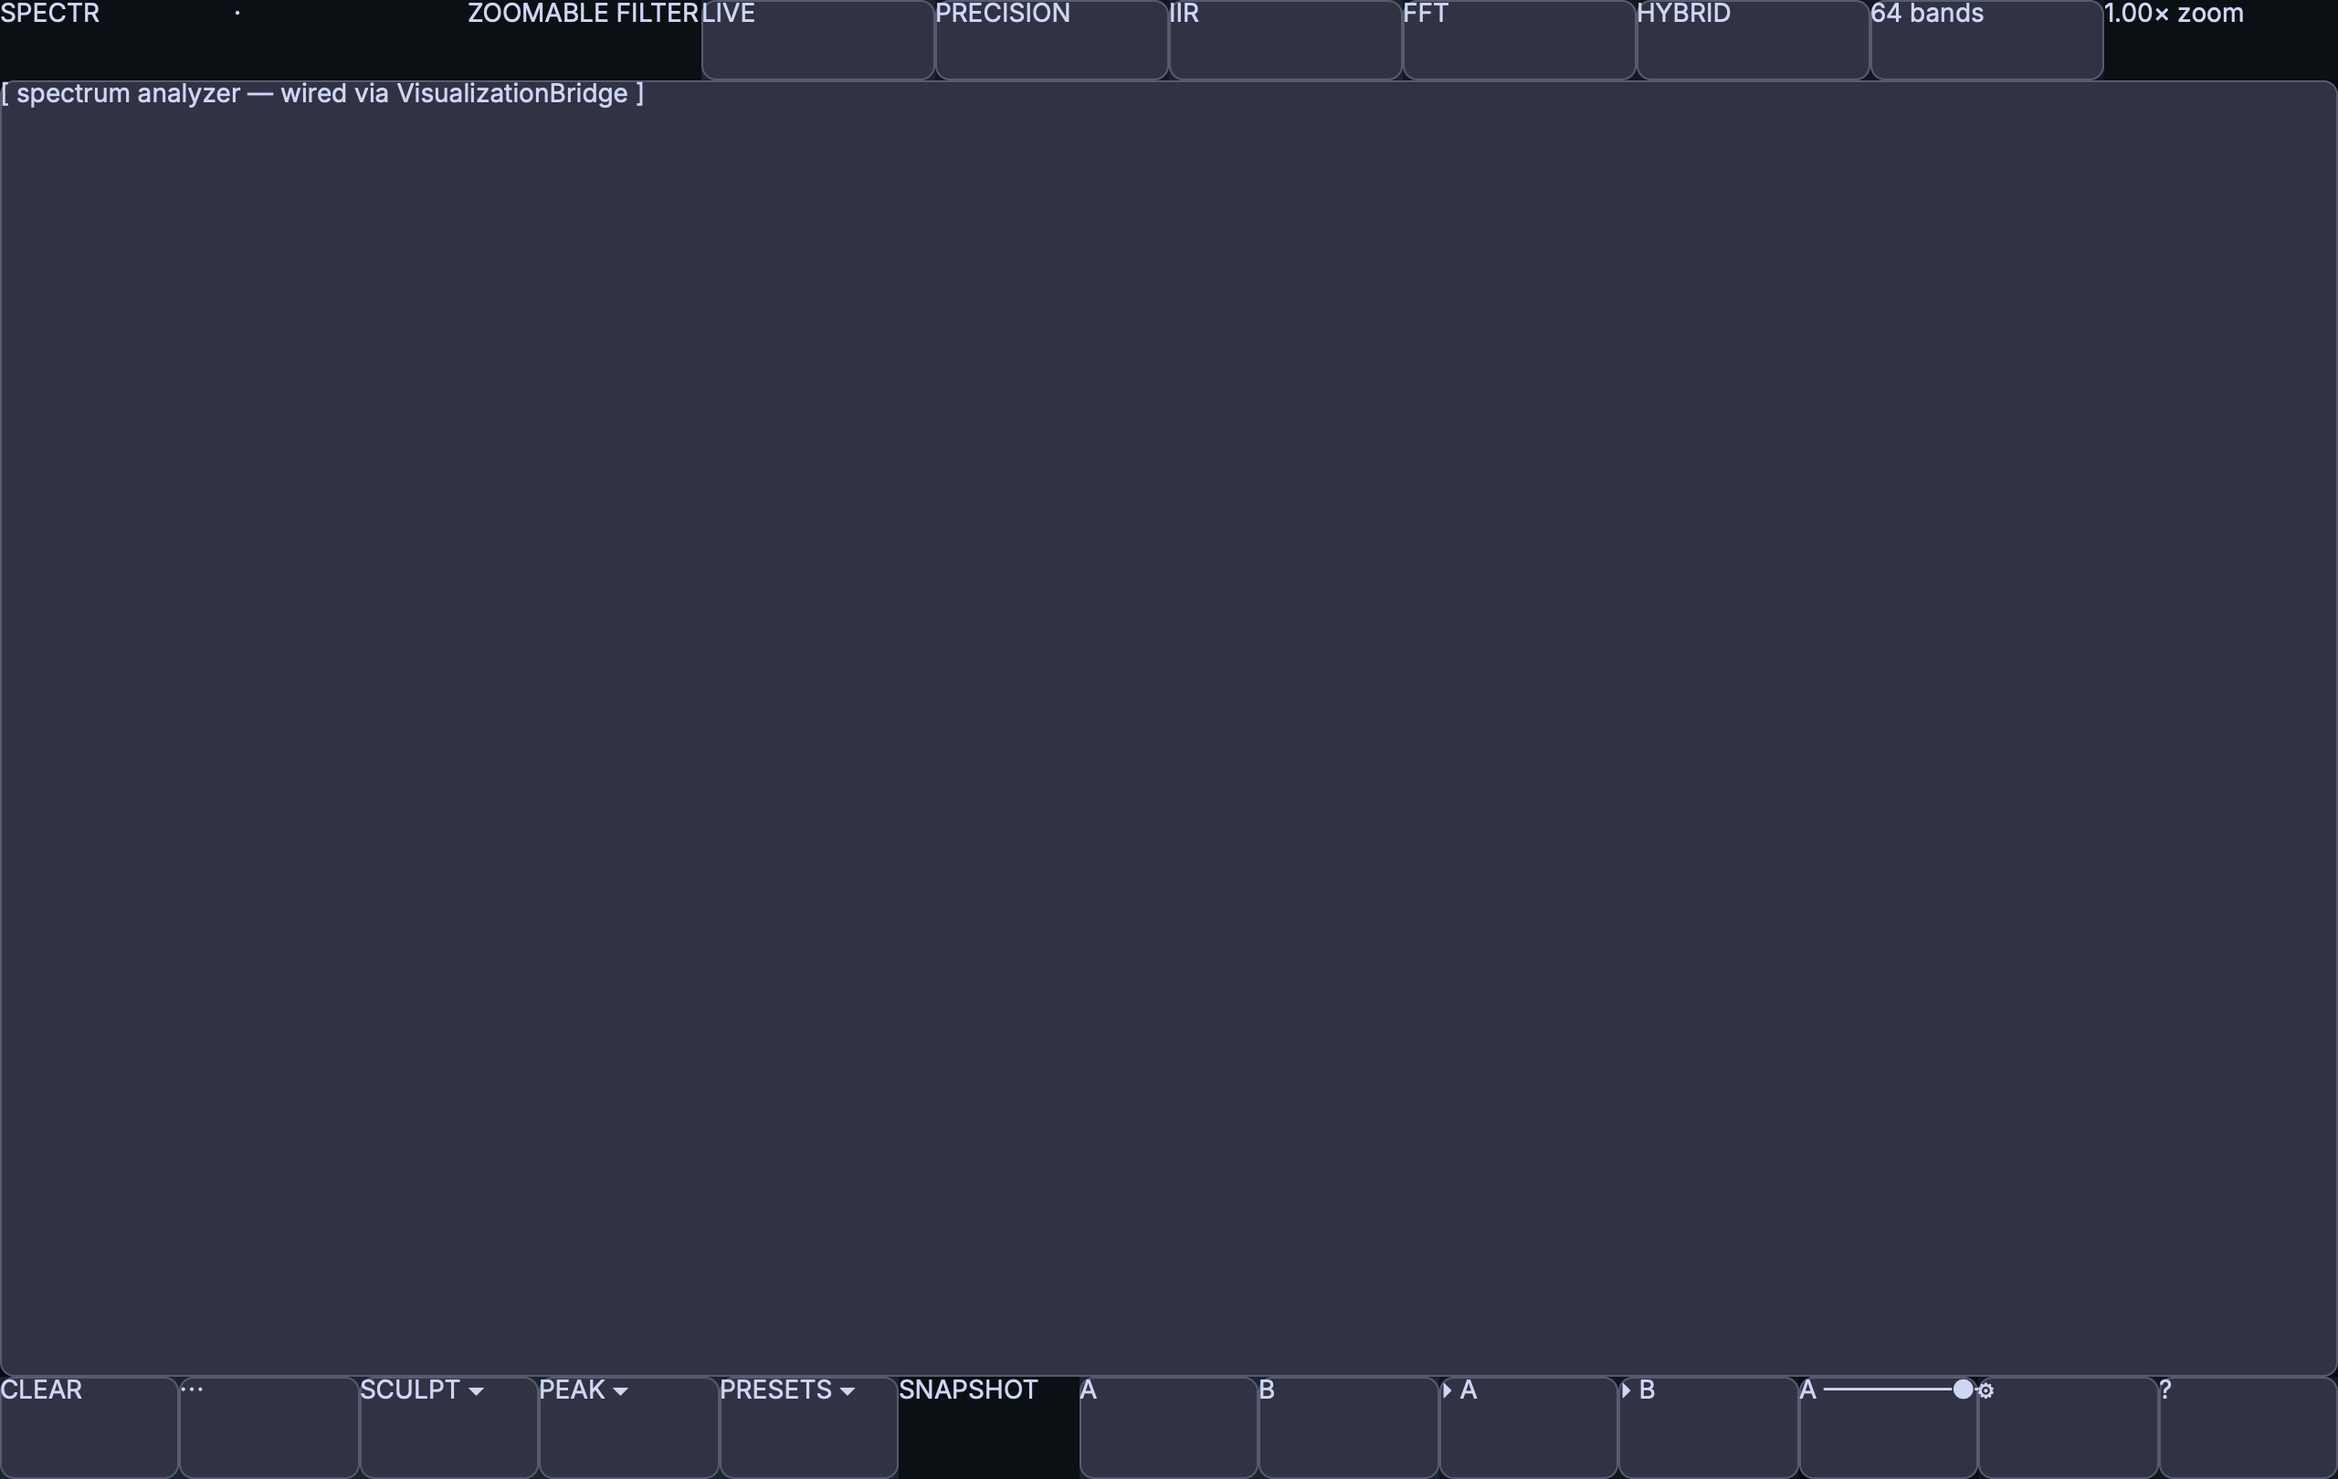
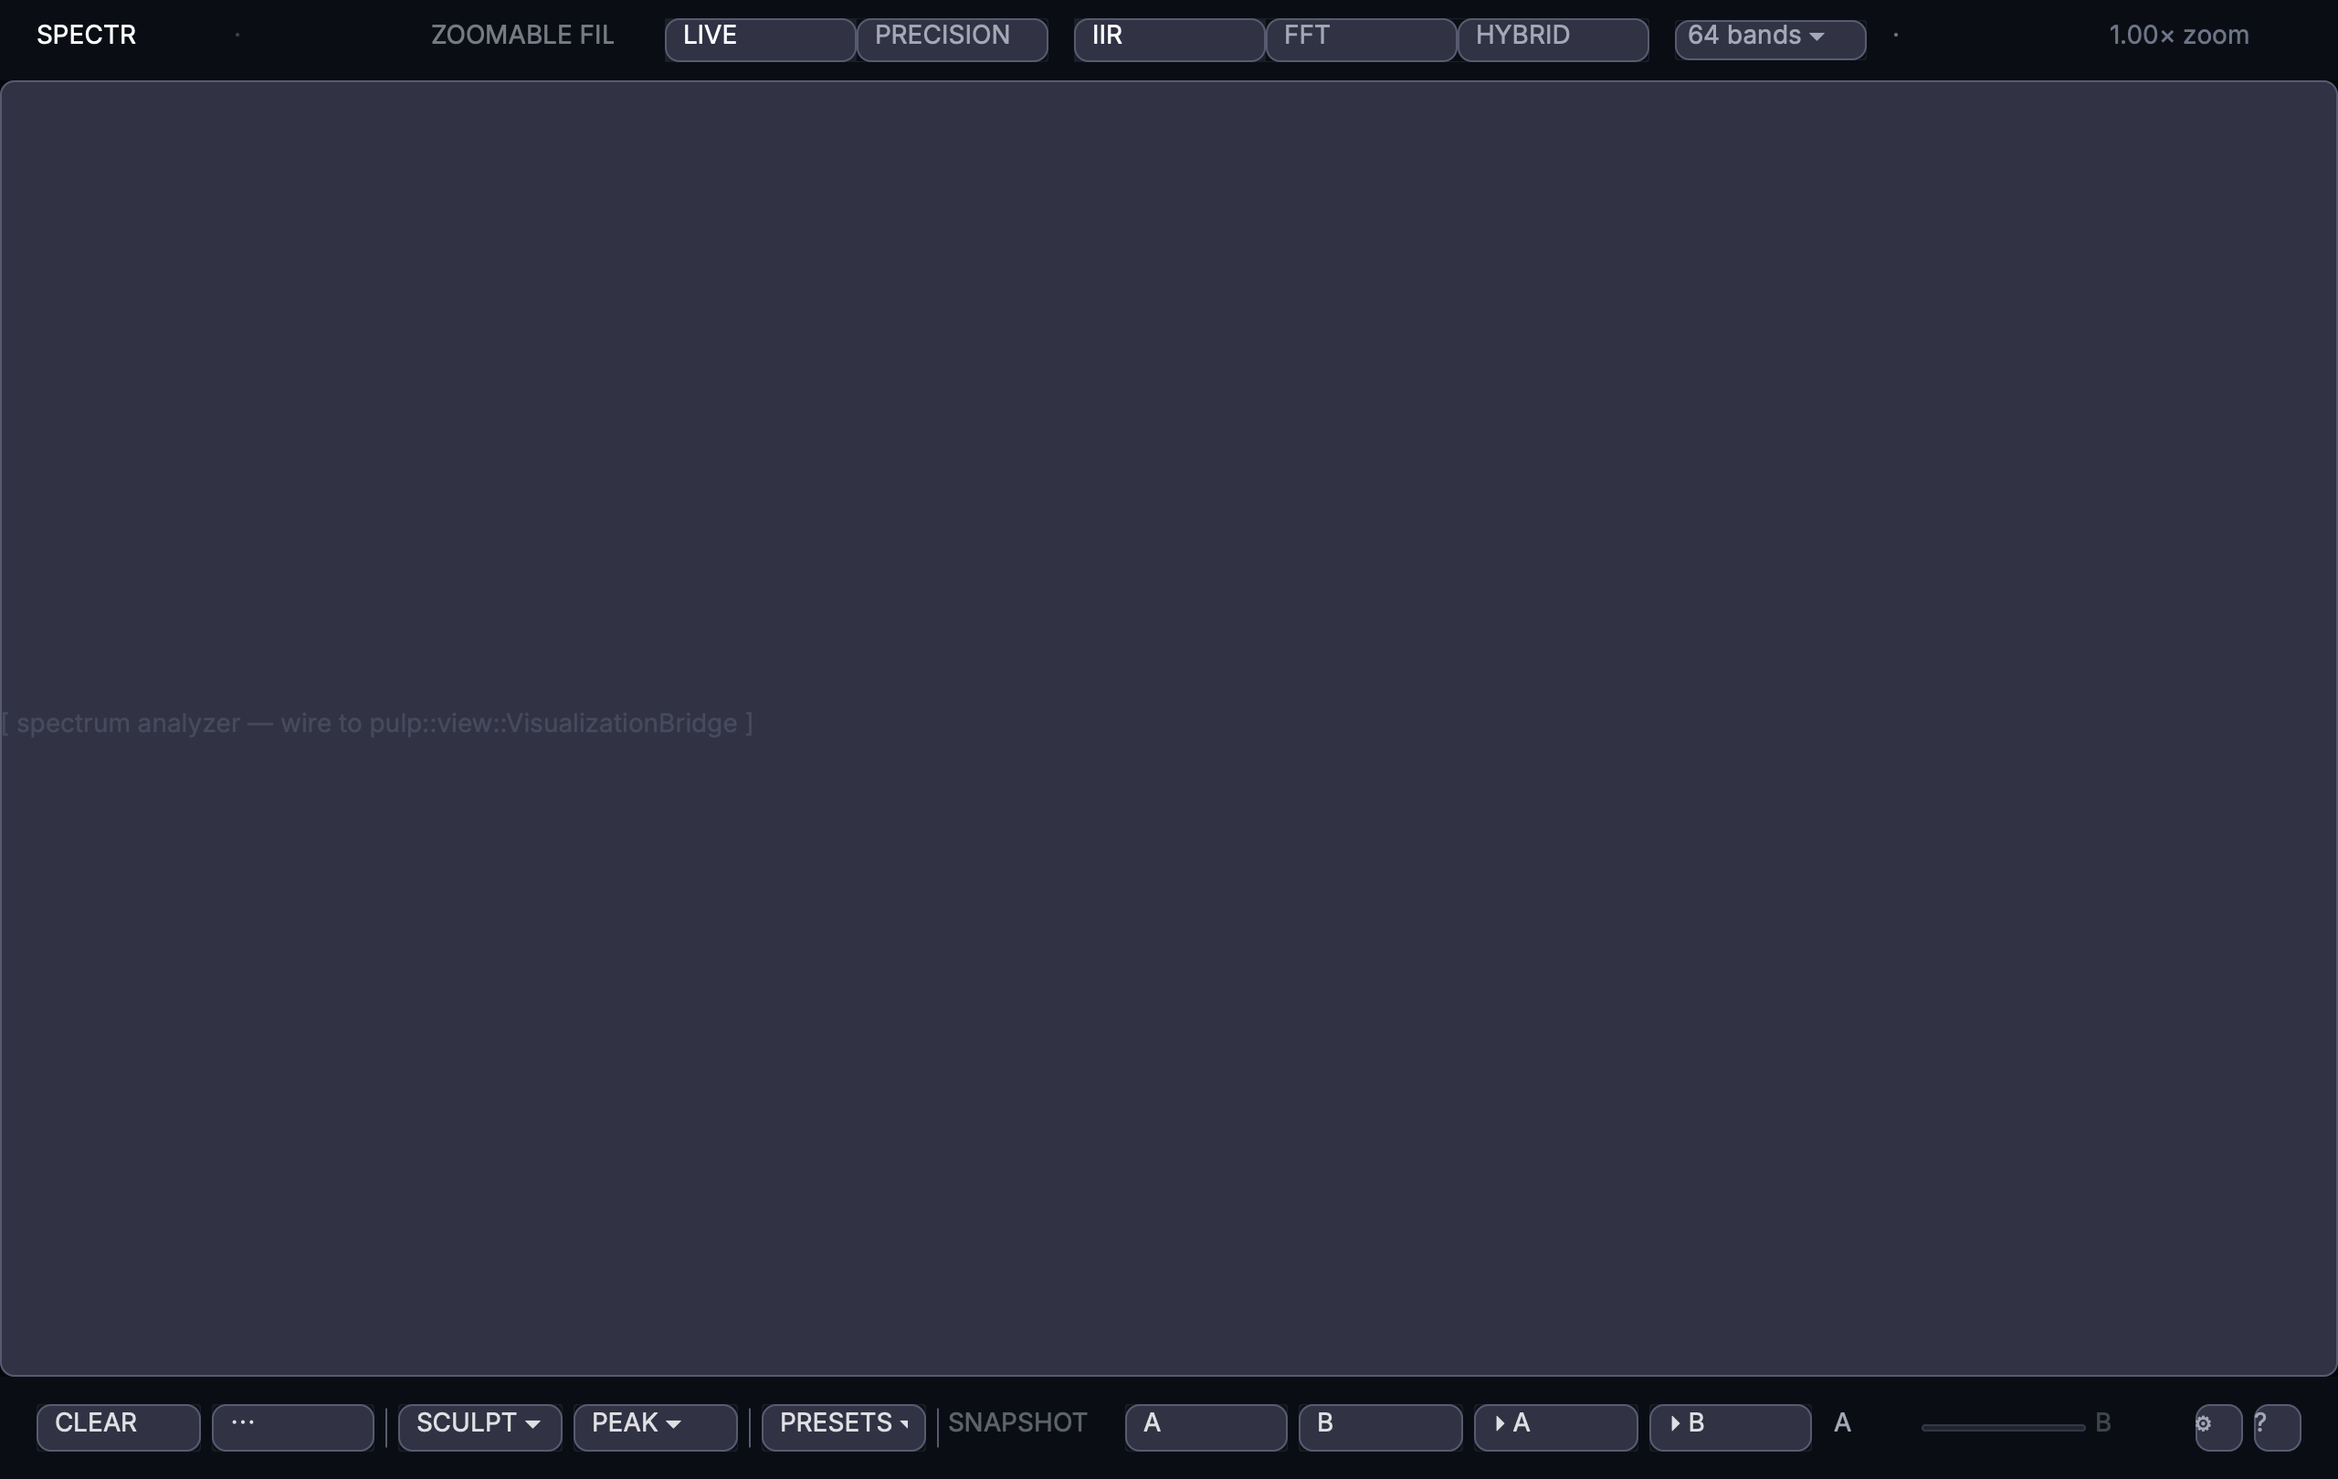
planning(screenshots): replace handcrafted render with v2 (full flex API)
The first commit's handcrafted PNG was using only a primitive subset
of the bridge (just createRow/createPanel/setBackground/setFlex
flex_grow). Result was rough — buttons stretched erratically, text
overlapped, no borders or rounded corners.

The bridge actually exposes the full flex API: gap, padding_*, margin_*,
align_items, justify_content, min_width/min_height, plus setBorder
with corner radius, setTextColor, setOpacity. Rewrote the handcrafted
ui.js using those, also dropping the source .ui.js next to the PNG
so anyone can re-render or inspect.

The result is materially closer to the Chrome target: rounded button
chrome, proper segmented controls (LIVE/PRECISION + IIR/FFT/HYBRID),
vertically-centered bottom rail, snap dividers, settings/help icon
buttons. Honest gaps (analyzer not painted, font-family default,
border weights slightly heavier) called out in the updated README.

Same render stack as v1 — Dawn + Skia + Yoga + WidgetBridge +
ScriptEngine. Same pulp-screenshot command. Same no-browser pipeline.
The walker improvements in pulp #764 should produce ui.js close to
this shape automatically.

diff --git a/planning/screenshots/spectr-editor-native-handcrafted.ui.js b/planning/screenshots/spectr-editor-native-handcrafted.ui.js
@@ -1,0 +1,254 @@
+// Hand-crafted Spectr editor v2 — uses the actual flex API the bridge
+// exposes (gap, padding, align_items, min_width, setBorder with radius,
+// setTextColor). Targets pixel-fidelity with Chrome reference within
+// the limits of pulp::view widget primitives today.
+
+setTheme('dark');
+
+// ── color tokens (sampled from Chrome render) ───────────────────────
+var BG_BASE     = '#05070a';
+var BG_BAR      = '#0a0e14';
+var BG_BTN      = '#1a1f28';
+var BG_BTN_OFF  = '#0e1218';
+var TXT_PRIMARY = '#ffffff';
+var TXT_DIM     = '#a3a8b5';
+var TXT_MUTED   = '#6e7588';
+var BORDER_DIM  = '#1b1f28';
+var ACCENT      = '#47b4eb';
+
+// ── root: vertical column, fills viewport ──────────────────────────
+createCol('root', '');
+setFlex('root', 'flex_grow', 1);
+setBackground('root', BG_BASE);
+
+// ═══════════════════════════════════════════════════════════════════
+// Top header bar (44pt, horizontal flex, gap 18, padding 0 20)
+// ═══════════════════════════════════════════════════════════════════
+createRow('topbar', 'root');
+setFlex('topbar', 'height', 44);
+setFlex('topbar', 'min_height', 44);
+setFlex('topbar', 'gap', 14);
+setFlex('topbar', 'padding_left', 20);
+setFlex('topbar', 'padding_right', 20);
+setFlex('topbar', 'align_items', 'center');
+setBackground('topbar', BG_BAR);
+setBorderSide('topbar', 'bottom', 1, '#191e25');
+
+// brand: SPECTR · ZOOMABLE FILTER BANK
+createRow('brand', 'topbar');
+setFlex('brand', 'gap', 8);
+setFlex('brand', 'align_items', 'center');
+
+createLabel('logo', 'SPECTR', 'brand');
+setTextColor('logo', TXT_PRIMARY);
+
+createLabel('logo_dot', '·', 'brand');
+setTextColor('logo_dot', TXT_MUTED);
+setOpacity('logo_dot', 0.5);
+
+createLabel('logo_sub', 'ZOOMABLE FILTER BANK', 'brand');
+setTextColor('logo_sub', TXT_DIM);
+setOpacity('logo_sub', 0.7);
+
+// flexible spacer
+createCol('spacer1', 'topbar');
+setFlex('spacer1', 'flex_grow', 1);
+
+// LIVE / PRECISION segmented control (active = LIVE)
+createRow('seg_lp', 'topbar');
+setFlex('seg_lp', 'height', 24);
+setBorder('seg_lp', BORDER_DIM, 1, 3);
+
+createPanel('btn_live', 'seg_lp');
+setFlex('btn_live', 'min_width', 56);
+setFlex('btn_live', 'padding_left', 10);
+setFlex('btn_live', 'padding_right', 10);
+setFlex('btn_live', 'align_items', 'center');
+setFlex('btn_live', 'justify_content', 'center');
+setBackground('btn_live', BG_BTN);
+createLabel('btn_live_l', 'LIVE', 'btn_live');
+setTextColor('btn_live_l', TXT_PRIMARY);
+
+createPanel('btn_precision', 'seg_lp');
+setFlex('btn_precision', 'min_width', 80);
+setFlex('btn_precision', 'padding_left', 10);
+setFlex('btn_precision', 'padding_right', 10);
+setFlex('btn_precision', 'align_items', 'center');
+setFlex('btn_precision', 'justify_content', 'center');
+createLabel('btn_precision_l', 'PRECISION', 'btn_precision');
+setTextColor('btn_precision_l', TXT_DIM);
+
+// IIR / FFT / HYBRID segmented control (active = IIR)
+createRow('seg_dsp', 'topbar');
+setFlex('seg_dsp', 'height', 24);
+setBorder('seg_dsp', BORDER_DIM, 1, 3);
+
+createPanel('btn_iir', 'seg_dsp');
+setFlex('btn_iir', 'min_width', 44);
+setFlex('btn_iir', 'padding_left', 10);
+setFlex('btn_iir', 'padding_right', 10);
+setFlex('btn_iir', 'align_items', 'center');
+setFlex('btn_iir', 'justify_content', 'center');
+setBackground('btn_iir', BG_BTN);
+createLabel('btn_iir_l', 'IIR', 'btn_iir');
+setTextColor('btn_iir_l', TXT_PRIMARY);
+
+createPanel('btn_fft', 'seg_dsp');
+setFlex('btn_fft', 'min_width', 44);
+setFlex('btn_fft', 'padding_left', 10);
+setFlex('btn_fft', 'padding_right', 10);
+setFlex('btn_fft', 'align_items', 'center');
+setFlex('btn_fft', 'justify_content', 'center');
+createLabel('btn_fft_l', 'FFT', 'btn_fft');
+setTextColor('btn_fft_l', TXT_DIM);
+
+createPanel('btn_hybrid', 'seg_dsp');
+setFlex('btn_hybrid', 'min_width', 60);
+setFlex('btn_hybrid', 'padding_left', 10);
+setFlex('btn_hybrid', 'padding_right', 10);
+setFlex('btn_hybrid', 'align_items', 'center');
+setFlex('btn_hybrid', 'justify_content', 'center');
+createLabel('btn_hybrid_l', 'HYBRID', 'btn_hybrid');
+setTextColor('btn_hybrid_l', TXT_DIM);
+
+// 64 bands ▾ button
+createPanel('bands', 'topbar');
+setFlex('bands', 'height', 22);
+setFlex('bands', 'padding_left', 7);
+setFlex('bands', 'padding_right', 7);
+setFlex('bands', 'align_items', 'center');
+setFlex('bands', 'justify_content', 'center');
+setBorder('bands', BORDER_DIM, 1, 3);
+createLabel('bands_l', '64 bands ▾', 'bands');
+setTextColor('bands_l', TXT_DIM);
+
+createLabel('zoom_dot', '·', 'topbar');
+setTextColor('zoom_dot', TXT_MUTED);
+
+createLabel('zoom', '1.00× zoom', 'topbar');
+setTextColor('zoom', TXT_MUTED);
+
+// ═══════════════════════════════════════════════════════════════════
+// Middle: spectrum analyzer area (flex_grow 1)
+// ═══════════════════════════════════════════════════════════════════
+createPanel('analyzer', 'root');
+setFlex('analyzer', 'flex_grow', 1);
+setFlex('analyzer', 'align_items', 'center');
+setFlex('analyzer', 'justify_content', 'center');
+setBackground('analyzer', BG_BASE);
+
+createLabel('analyzer_placeholder',
+    '[ spectrum analyzer — wire to pulp::view::VisualizationBridge ]',
+    'analyzer');
+setTextColor('analyzer_placeholder', TXT_MUTED);
+setOpacity('analyzer_placeholder', 0.35);
+
+// ═══════════════════════════════════════════════════════════════════
+// Bottom action rail (56pt, horizontal flex, gap 8, padding 0 20)
+// ═══════════════════════════════════════════════════════════════════
+createRow('bottomrail', 'root');
+setFlex('bottomrail', 'height', 56);
+setFlex('bottomrail', 'min_height', 56);
+setFlex('bottomrail', 'gap', 6);
+setFlex('bottomrail', 'padding_left', 20);
+setFlex('bottomrail', 'padding_right', 20);
+setFlex('bottomrail', 'align_items', 'center');
+setBackground('bottomrail', BG_BAR);
+setBorderSide('bottomrail', 'top', 1, '#191e25');
+
+function chromeBtn(id, parent, text, minW) {
+    createPanel(id, parent);
+    setFlex(id, 'height', 26);
+    setFlex(id, 'min_width', minW || 38);
+    setFlex(id, 'padding_left', 10);
+    setFlex(id, 'padding_right', 10);
+    setFlex(id, 'align_items', 'center');
+    setFlex(id, 'justify_content', 'center');
+    setBackground(id, '#0d1117');
+    setBorder(id, BORDER_DIM, 1, 3);
+    createLabel(id + '_l', text, id);
+    setTextColor(id + '_l', TXT_PRIMARY);
+    setOpacity(id + '_l', 0.85);
+}
+
+chromeBtn('btn_clear', 'bottomrail', 'CLEAR', 56);
+chromeBtn('btn_more', 'bottomrail', '⋯', 32);
+
+// thin divider
+createPanel('div1', 'bottomrail');
+setFlex('div1', 'width', 1);
+setFlex('div1', 'min_width', 1);
+setFlex('div1', 'height', 22);
+setBackground('div1', '#1b2028');
+
+chromeBtn('btn_sculpt', 'bottomrail', 'SCULPT ▾', 88);
+chromeBtn('btn_peak', 'bottomrail', 'PEAK ▾', 70);
+
+createPanel('div2', 'bottomrail');
+setFlex('div2', 'width', 1);
+setFlex('div2', 'min_width', 1);
+setFlex('div2', 'height', 22);
+setBackground('div2', '#1b2028');
+
+chromeBtn('btn_presets', 'bottomrail', 'PRESETS ▾', 90);
+
+createPanel('div3', 'bottomrail');
+setFlex('div3', 'width', 1);
+setFlex('div3', 'min_width', 1);
+setFlex('div3', 'height', 22);
+setBackground('div3', '#1b2028');
+
+createLabel('snap_label', 'SNAPSHOT', 'bottomrail');
+setTextColor('snap_label', TXT_DIM);
+setOpacity('snap_label', 0.55);
+
+chromeBtn('btn_a', 'bottomrail', 'A', 34);
+chromeBtn('btn_b', 'bottomrail', 'B', 34);
+chromeBtn('btn_play_a', 'bottomrail', '▸ A', 34);
+chromeBtn('btn_play_b', 'bottomrail', '▸ B', 34);
+
+// morph slider track
+createRow('morph', 'bottomrail');
+setFlex('morph', 'gap', 6);
+setFlex('morph', 'align_items', 'center');
+setFlex('morph', 'margin_left', 6);
+setOpacity('morph', 0.35);
+
+createLabel('morph_a', 'A', 'morph');
+setTextColor('morph_a', TXT_DIM);
+
+createPanel('morph_track', 'morph');
+setFlex('morph_track', 'width', 90);
+setFlex('morph_track', 'min_width', 90);
+setFlex('morph_track', 'height', 4);
+setBackground('morph_track', '#2a3340');
+setBorder('morph_track', '#2a3340', 0, 2);
+
+createLabel('morph_b', 'B', 'morph');
+setTextColor('morph_b', TXT_DIM);
+
+// flexible spacer pushes settings/help to the right
+createCol('spacer2', 'bottomrail');
+setFlex('spacer2', 'flex_grow', 1);
+
+createPanel('btn_settings', 'bottomrail');
+setFlex('btn_settings', 'width', 26);
+setFlex('btn_settings', 'min_width', 26);
+setFlex('btn_settings', 'height', 26);
+setFlex('btn_settings', 'align_items', 'center');
+setFlex('btn_settings', 'justify_content', 'center');
+setBorder('btn_settings', '#2a3340', 1, 13);
+createLabel('btn_settings_l', '⚙', 'btn_settings');
+setTextColor('btn_settings_l', TXT_DIM);
+
+createPanel('btn_help', 'bottomrail');
+setFlex('btn_help', 'width', 26);
+setFlex('btn_help', 'min_width', 26);
+setFlex('btn_help', 'height', 26);
+setFlex('btn_help', 'align_items', 'center');
+setFlex('btn_help', 'justify_content', 'center');
+setBorder('btn_help', '#2a3340', 1, 13);
+createLabel('btn_help_l', '?', 'btn_help');
+setTextColor('btn_help_l', TXT_DIM);
+
+void 0;

diff --git a/planning/screenshots/README.md b/planning/screenshots/README.md
@@ -32,15 +32,28 @@ is in pulp-import-design's translation. Tracked in pulp #764.
 
 ### 3. `spectr-editor-native-handcrafted.png` — what the renderer can do
 
-Hand-crafted `ui.js` that uses the same WidgetBridge primitives the
-walker has access to (`createRow`, `createPanel`, `setBackground`,
-`setFlex(..., 'flex_grow', N)`) — what the walker SHOULD emit after
-pulp #764 lands. Same `pulp-screenshot` command, same render stack.
+Hand-crafted `ui.js` (source: `spectr-editor-native-handcrafted.ui.js`
+in this folder) using the WidgetBridge's actual flex API — `createRow`,
+`createPanel`, `setBackground`, `setFlex(id, 'gap', …)`, `setFlex(id,
+'padding_left', …)`, `setFlex(id, 'align_items', 'center')`, `setBorder`
+with corner radius, `setTextColor`, `setOpacity`. Same `pulp-screenshot`
+command, same render stack as #2.
 
-Result: the actual Spectr layout — top header bar with logo + mode
-toggles, central area placeholder for the analyzer, bottom action
-rail with all the chrome buttons. **No browser. No QuickJS-React
-fragility. Just Pulp's native primitives.**
+Result: top header bar with brand + LIVE/PRECISION + IIR/FFT/HYBRID
+segmented controls + 64 bands + zoom indicator; central area for the
+analyzer (placeholder); bottom action rail with CLEAR / ⋯ / SCULPT▾ /
+PEAK▾ / PRESETS▾ / SNAPSHOT / A / B / ▸A / ▸B / morph slider track /
+settings / help. Vertical centering, rounded button corners, subtle
+borders, proper text colors all rendered by Skia via WidgetBridge.
+
+**No browser. No QuickJS-React fragility. Just Pulp's native
+primitives.** The remaining gap vs. the Chrome target: the analyzer
+isn't actually painted (a real `<canvas>` is runtime DSP-driven —
+needs the `pulp::view::VisualizationBridge` wiring already published
+by Spectr's M3), some text overflows the brand container ("ZOOMABLE
+FILTER" truncates), border weights are slightly heavier than Chrome's,
+and there's no font-family override (the rendered text uses Pulp's
+default font, not the editor's monospace).
 
 ## What this proves
 
